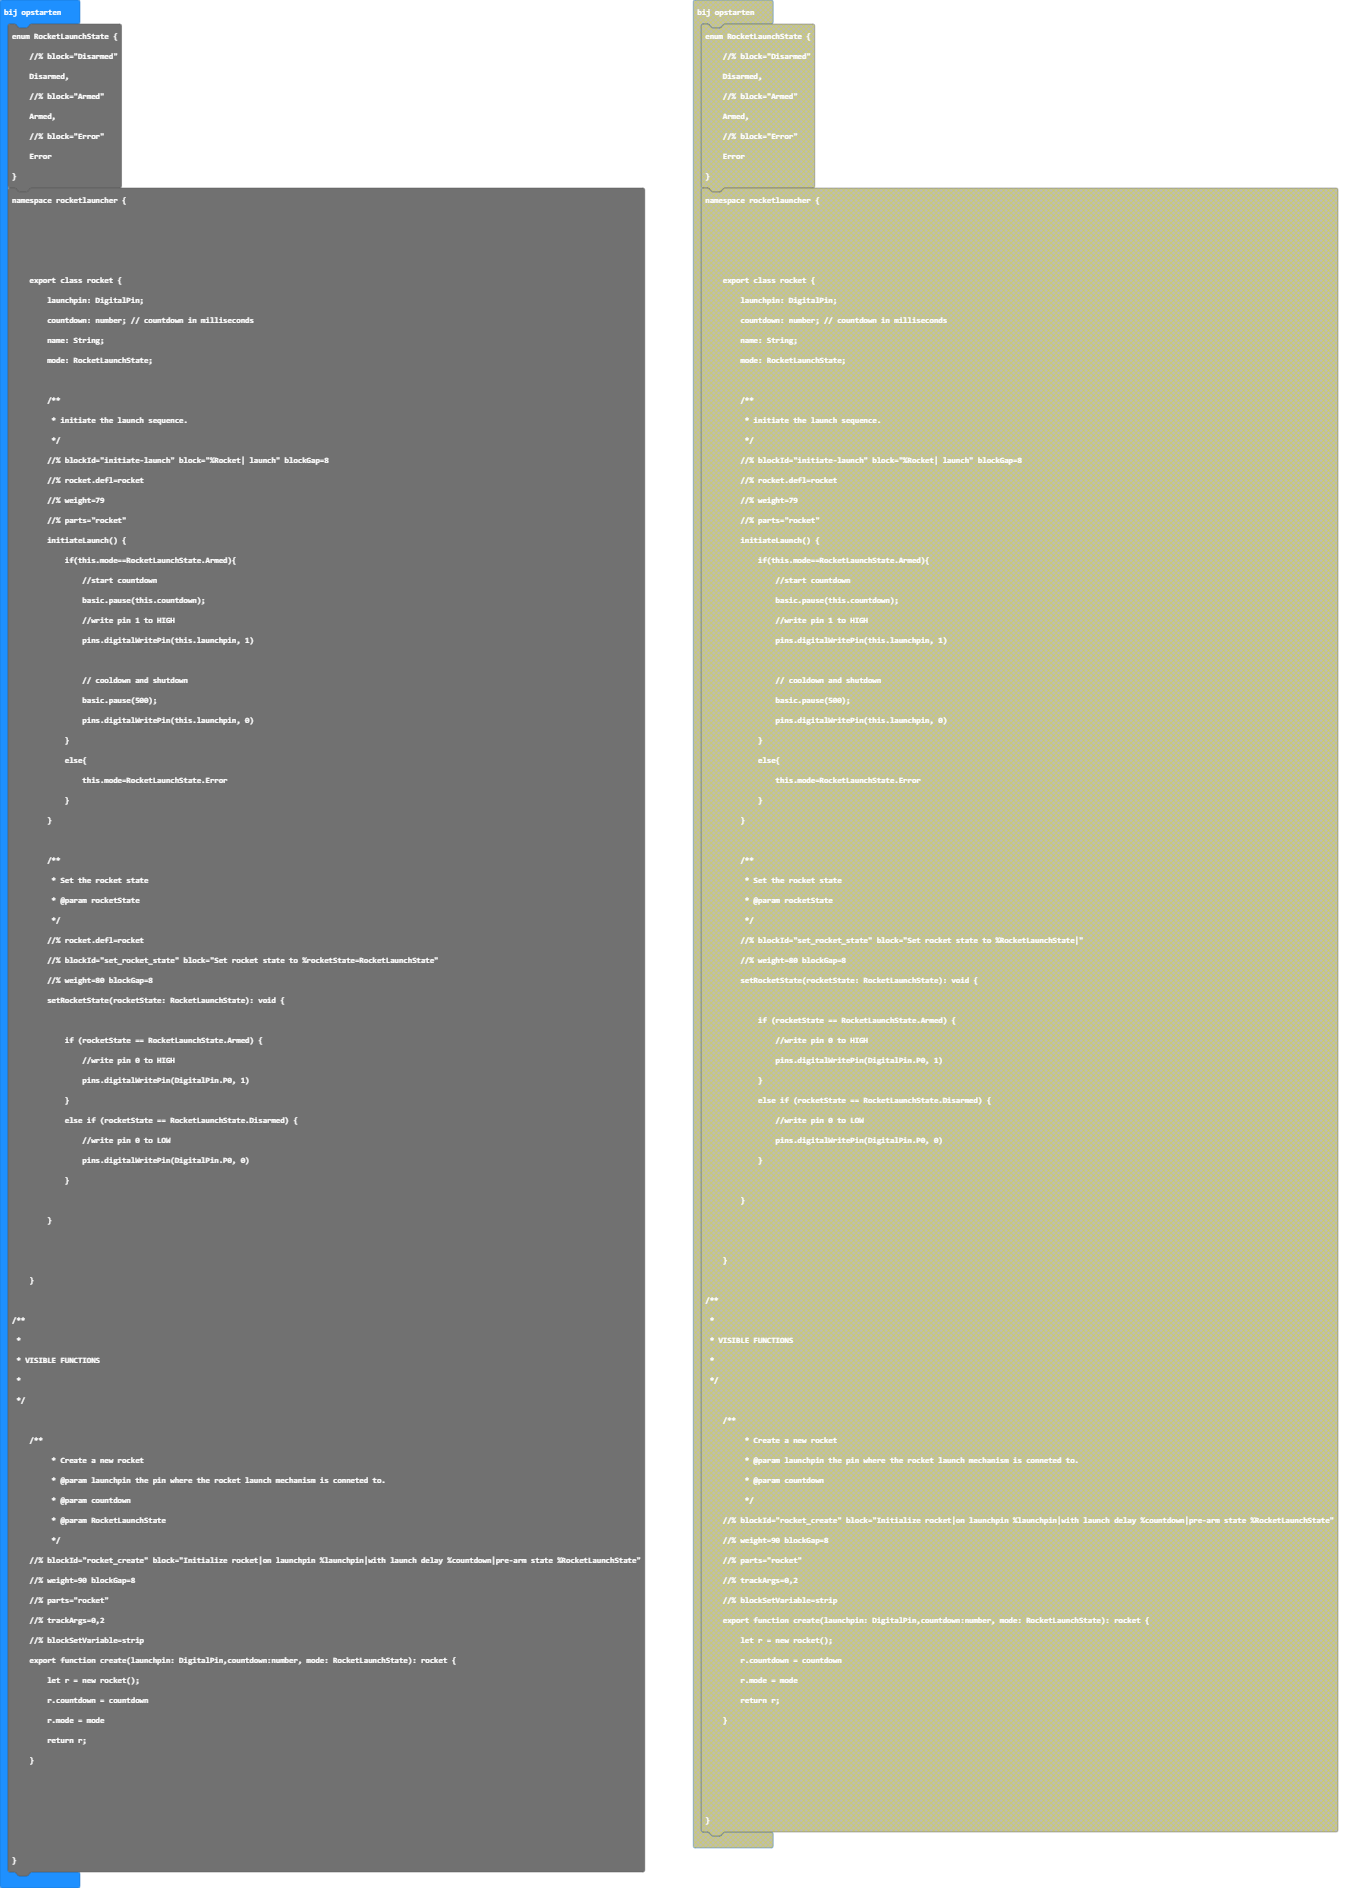
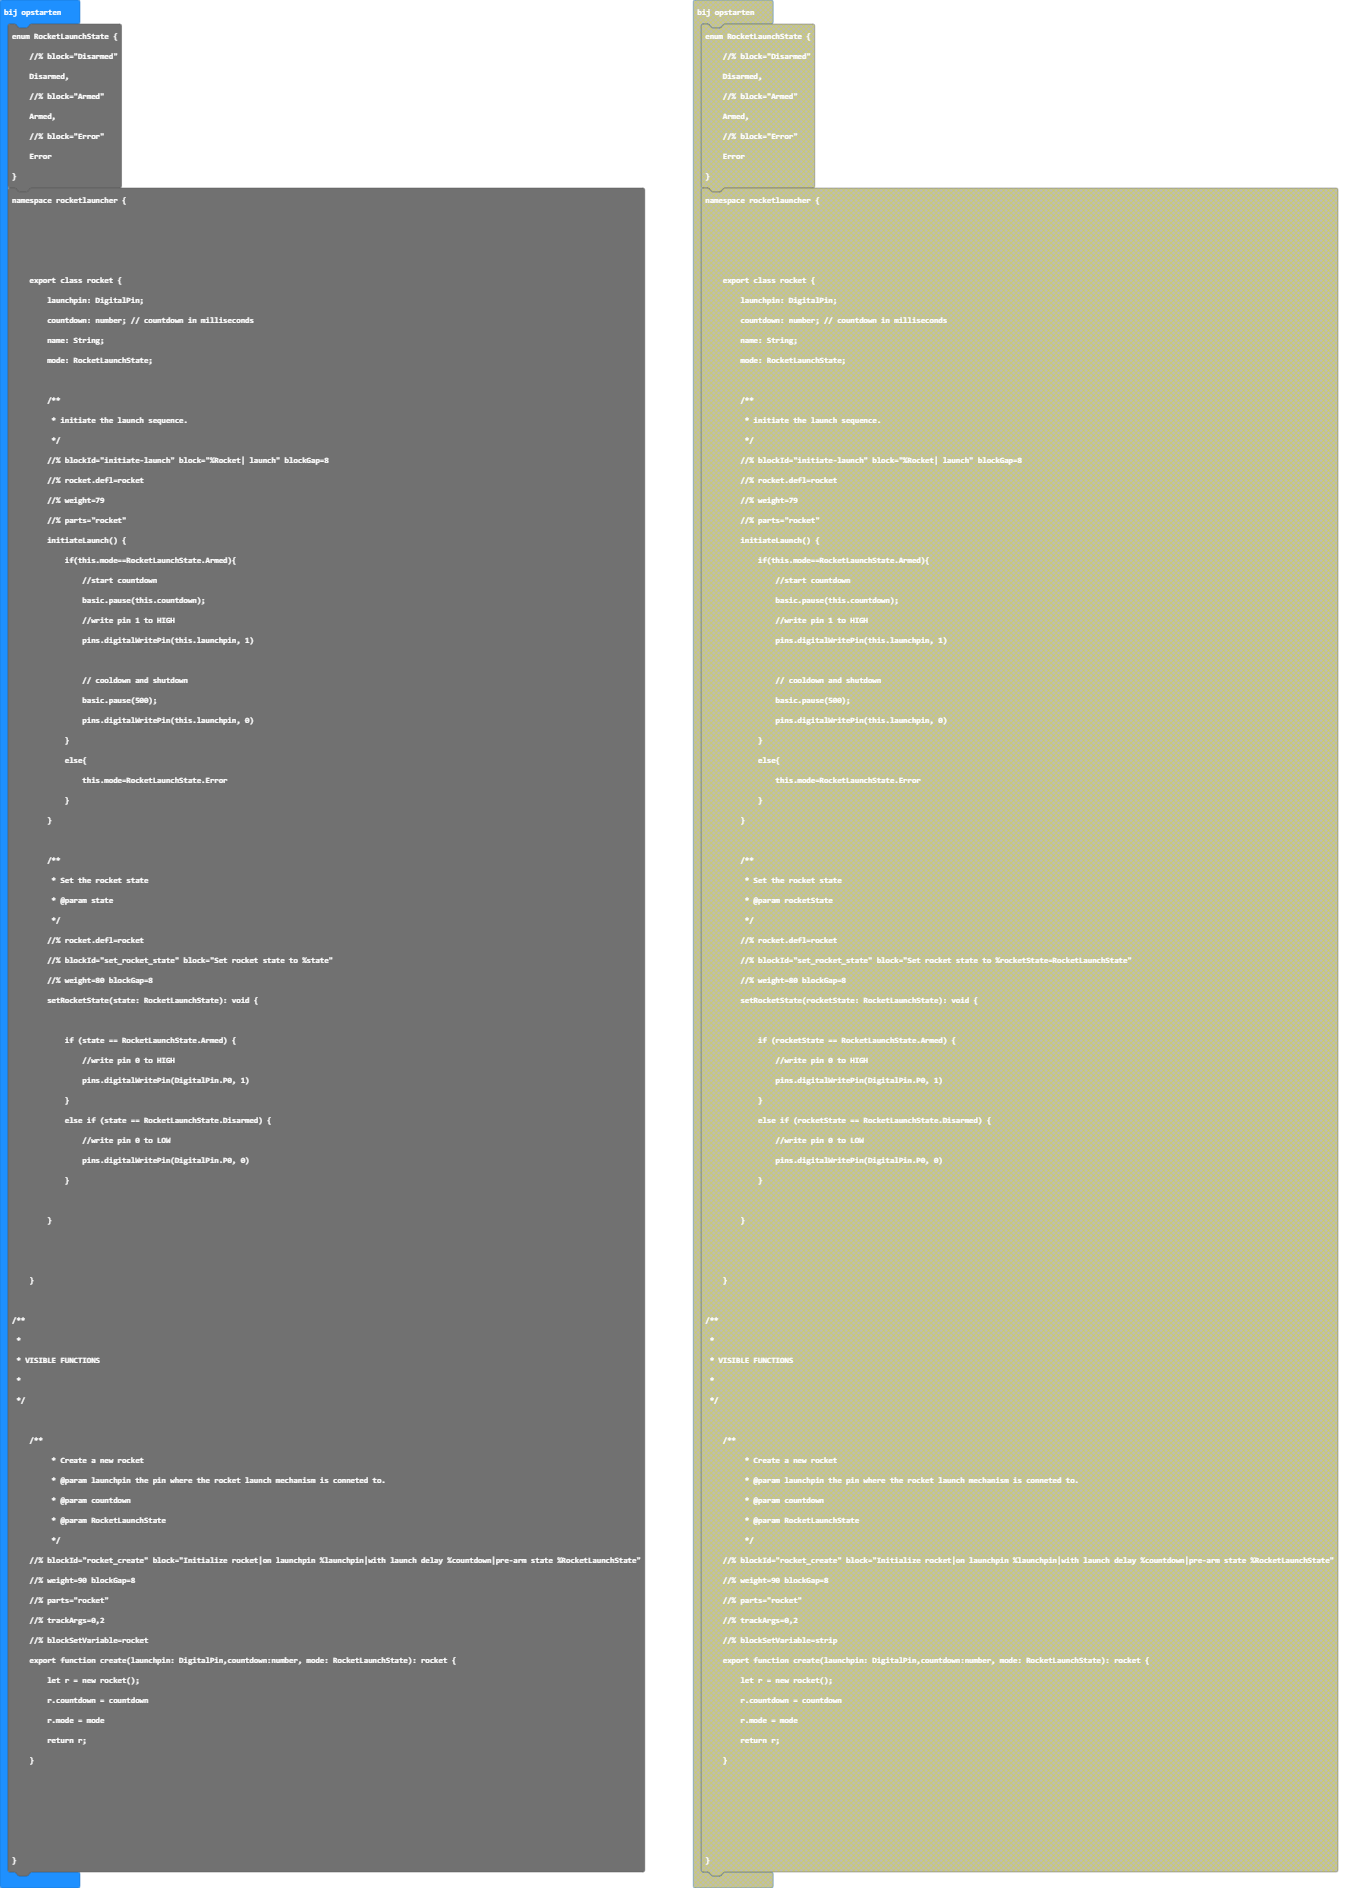
main.blocks, main.ts bijwerken

Changed region(s): [[0.5543, 0.5, 0.7082, 0.625], [0.5235, 0.75, 0.8006, 0.9062], [0.4927, 0.9688, 0.9853, 1.0]]

diff --git a/main.ts b/main.ts
@@ -41,18 +41,18 @@ namespace rocketlauncher {
 
         /**
          * Set the rocket state
-         * @param rocketState
+         * @param state
          */
         //% rocket.defl=rocket
-        //% blockId="set_rocket_state" block="Set rocket state to %rocketState=RocketLaunchState"
+        //% blockId="set_rocket_state" block="Set rocket state to %state"
         //% weight=80 blockGap=8
-        setRocketState(rocketState: RocketLaunchState): void {
+        setRocketState(state: RocketLaunchState): void {
 
-            if (rocketState == RocketLaunchState.Armed) {
+            if (state == RocketLaunchState.Armed) {
                 //write pin 0 to HIGH 
                 pins.digitalWritePin(DigitalPin.P0, 1)
             }
-            else if (rocketState == RocketLaunchState.Disarmed) {
+            else if (state == RocketLaunchState.Disarmed) {
                 //write pin 0 to LOW
                 pins.digitalWritePin(DigitalPin.P0, 0)
             }
@@ -78,7 +78,7 @@ namespace rocketlauncher {
     //% weight=90 blockGap=8
     //% parts="rocket"
     //% trackArgs=0,2
-    //% blockSetVariable=strip
+    //% blockSetVariable=rocket
     export function create(launchpin: DigitalPin,countdown:number, mode: RocketLaunchState): rocket {
         let r = new rocket();
         r.countdown = countdown
